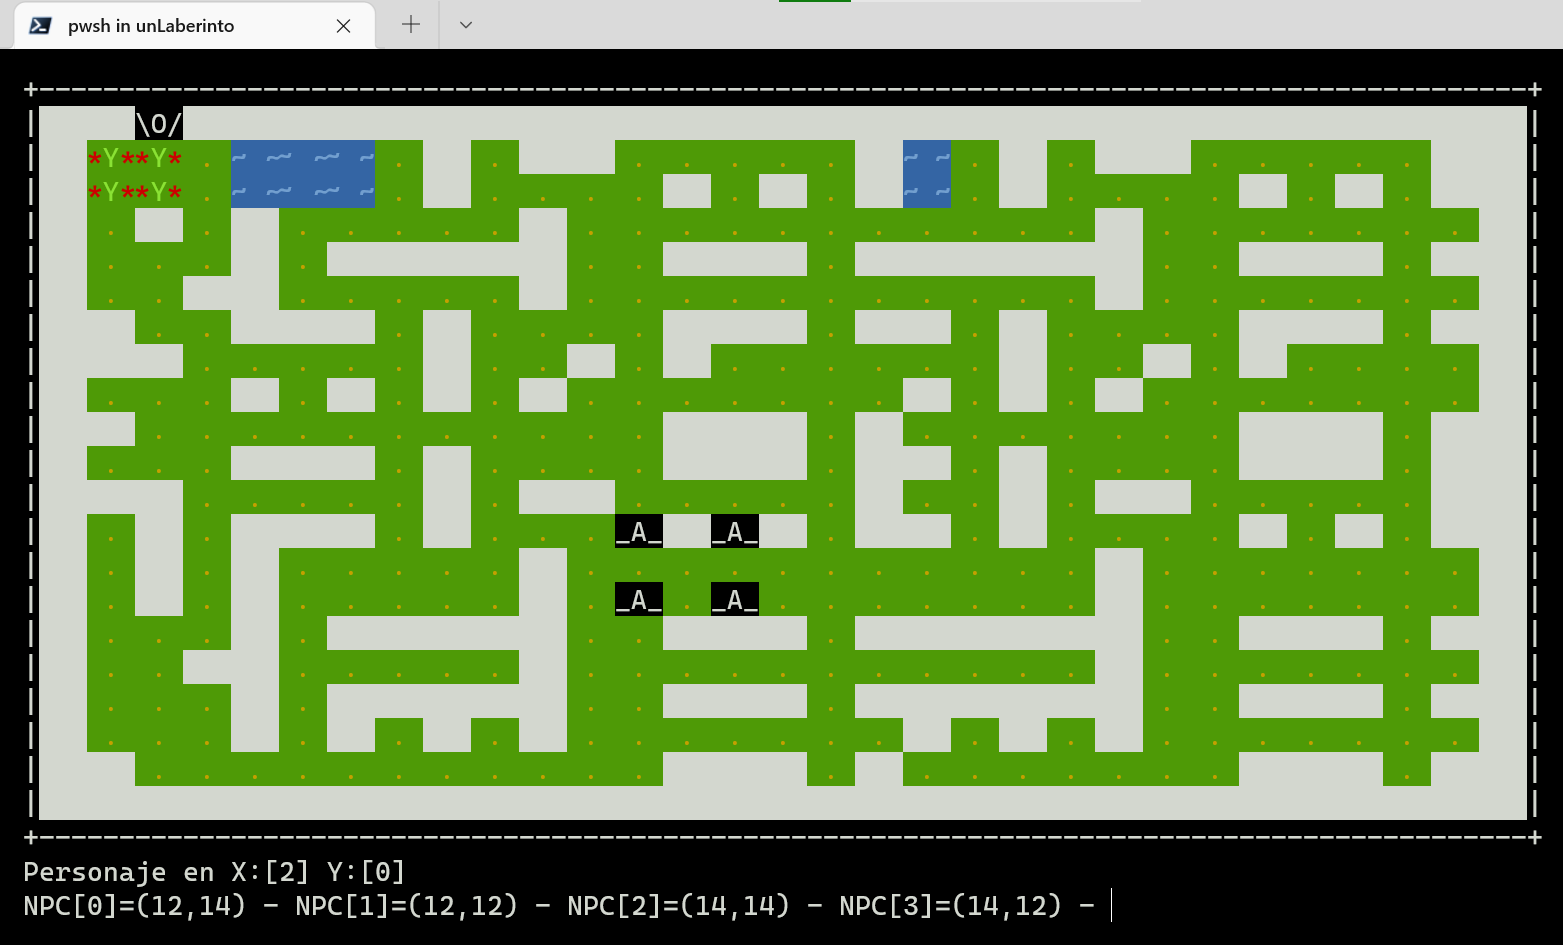
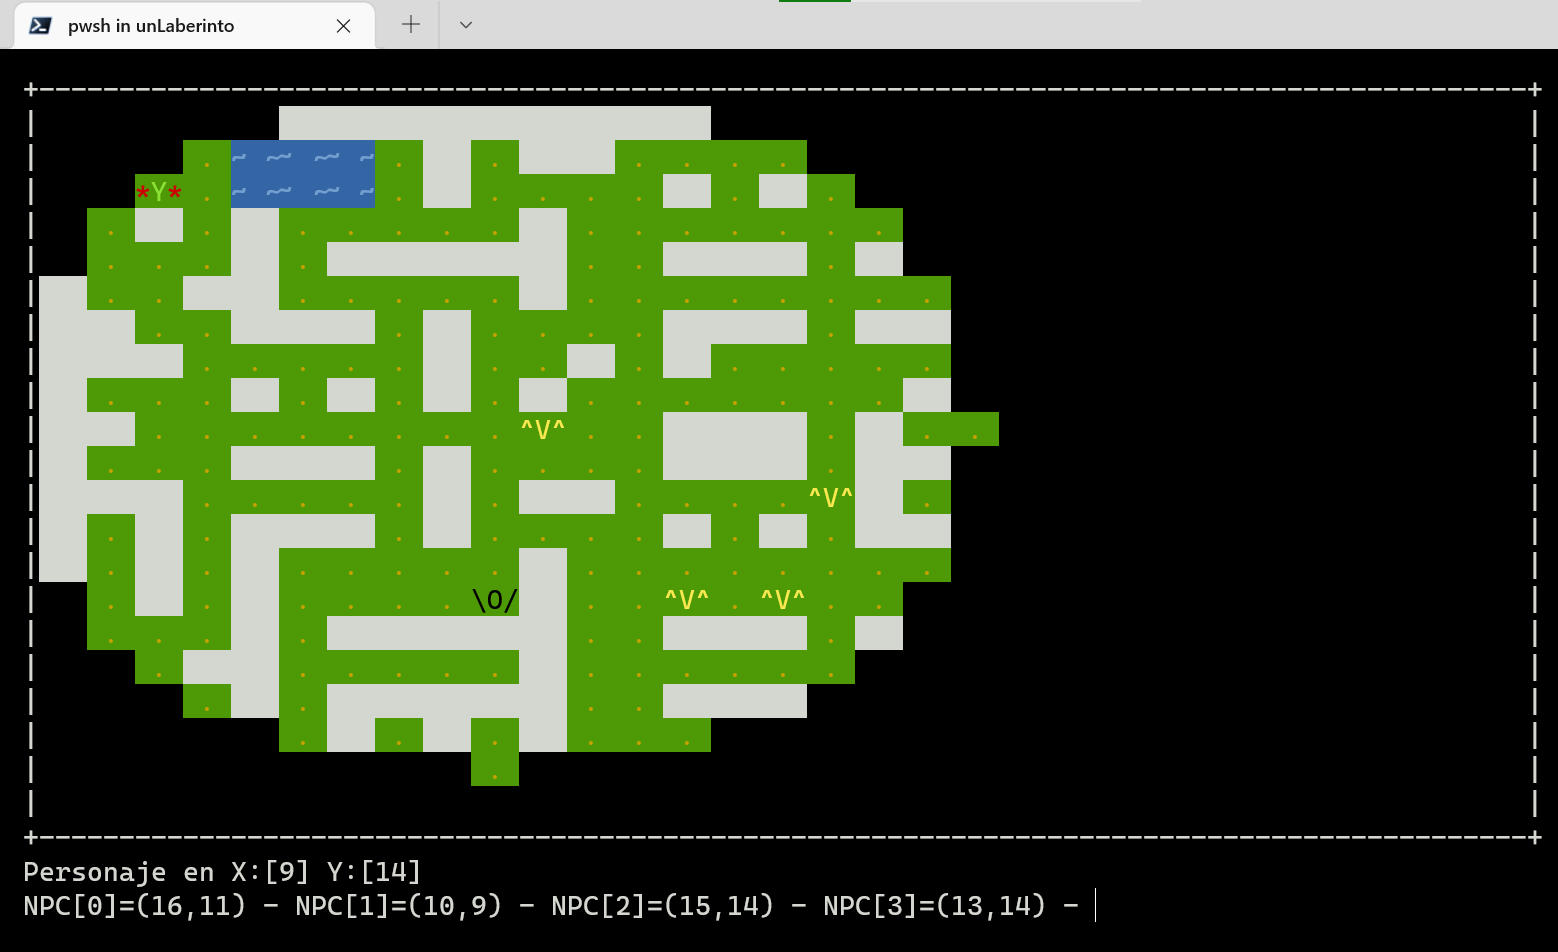
Para comentar (en clase) y mejorarlo (en casa/clase)

diff --git a/UnLaberinto.java b/UnLaberinto.java
@@ -2,7 +2,7 @@ import java.util.Scanner;
 
 class UnLaberinto {
 
-	private static int ALCANCE_ANTORCHA = 50;
+	private static int ALCANCE_ANTORCHA = 10;
 
 	private static String INICIO = "\033[";
 	private static String RESET = "\033[0m";
@@ -123,22 +123,22 @@ class UnLaberinto {
 		}
 	}
 
-	private static void imprimeMundo(int[][] mapaPorImprimir, int[][] elPersonaje, int[][] losNPCs) {
+	private static void imprimeMundo(int[][] elMapa, int[][] elPersonaje, int[][] losNPCs) {
 
 		limpiaPantalla();
-		imprimeBordeHorizontal(mapaPorImprimir[0].length);
+		imprimeBordeHorizontal(elMapa[0].length);
 
-		for (int i = 0; i < mapaPorImprimir.length; i = i + 1) {
+		for (int i = 0; i < elMapa.length; i = i + 1) {
 			imprimeBordeVertical(false);
-			for (int j = 0; j < mapaPorImprimir[i].length; j = j + 1) {
-				if (puedoVer(i, j, ALCANCE_ANTORCHA)) {
+			for (int j = 0; j < elMapa[i].length; j = j + 1) {
+				if (puedoVer(i, j, elPersonaje)) {
 					if (i == elPersonaje[0][1] && j == elPersonaje[0][0]) {
 						imprimePersonaje();
 					} else {
 						if (hayNPC(losNPCs, i, j)) {
 							imprimeNPC();
 						} else {
-							imprimeElemento(mapaPorImprimir[i][j]);
+							imprimeElemento(elMapa[i][j]);
 						}
 					}
 				} else {
@@ -147,7 +147,7 @@ class UnLaberinto {
 			}
 			imprimeBordeVertical(true);
 		}
-		imprimeBordeHorizontal(mapaPorImprimir[0].length);
+		imprimeBordeHorizontal(elMapa[0].length);
 		imprimeStatus(elPersonaje, losNPCs);
 	}
 
@@ -165,12 +165,6 @@ class UnLaberinto {
 			}
 		}
 		return false;
-	}
-
-	private static void imprimeNPC() {
-
-		System.out.print("_A_");
-
 	}
 
 	private static void limpiaPantalla() {
@@ -197,18 +191,24 @@ class UnLaberinto {
 
 	}
 
-	private static boolean puedoVer(int i, int j, int alcanceVision) {
+	private static boolean puedoVer(int i, int j, int[][] elPersonaje) {
 
-		// return
-		// Math.pow(posicionPersonajeX-j,2)+Math.pow(posicionPersonajeY-i,2)<=Math.pow(alcanceVision,2);
-		return true;
+		return Math.pow(elPersonaje[0][0]-j,2)+Math.pow(elPersonaje[0][0]-i,2)<=Math.pow(ALCANCE_ANTORCHA,2);
+
 	}
 
 	private static void imprimePersonaje() {
 
-		System.out.print("\\O/");
+		System.out.print(INICIO + BLACK + GREEN_BACKGROUND + "\\O/" + RESET);
 
 	}
+
+	private static void imprimeNPC() {
+
+		System.out.print(INICIO + YELLOW_BOLD + GREEN_BACKGROUND + "^V^" + RESET);
+
+	}
+
 
 	private static void imprimeBordeHorizontal(int laLongitud) {
 
